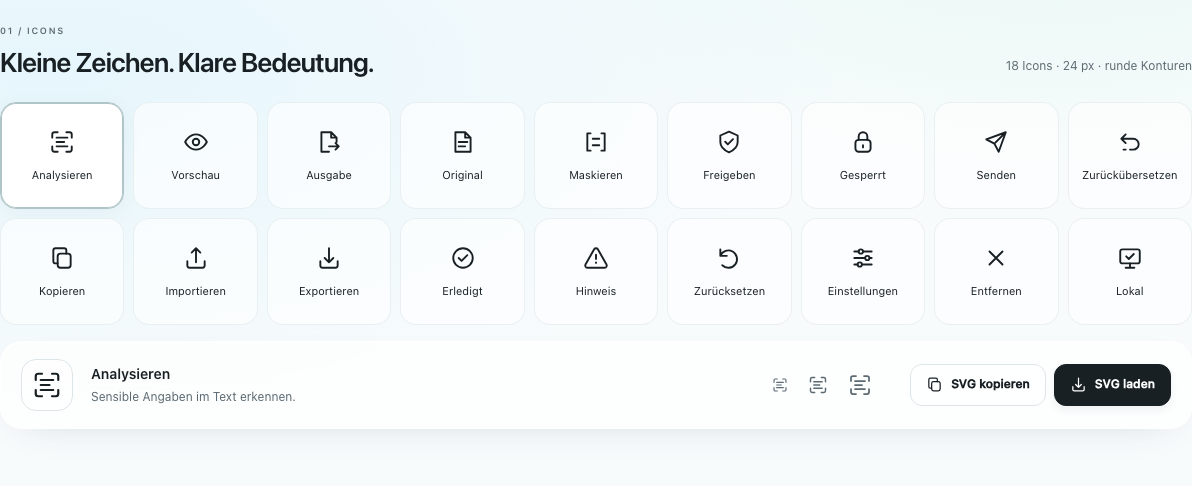
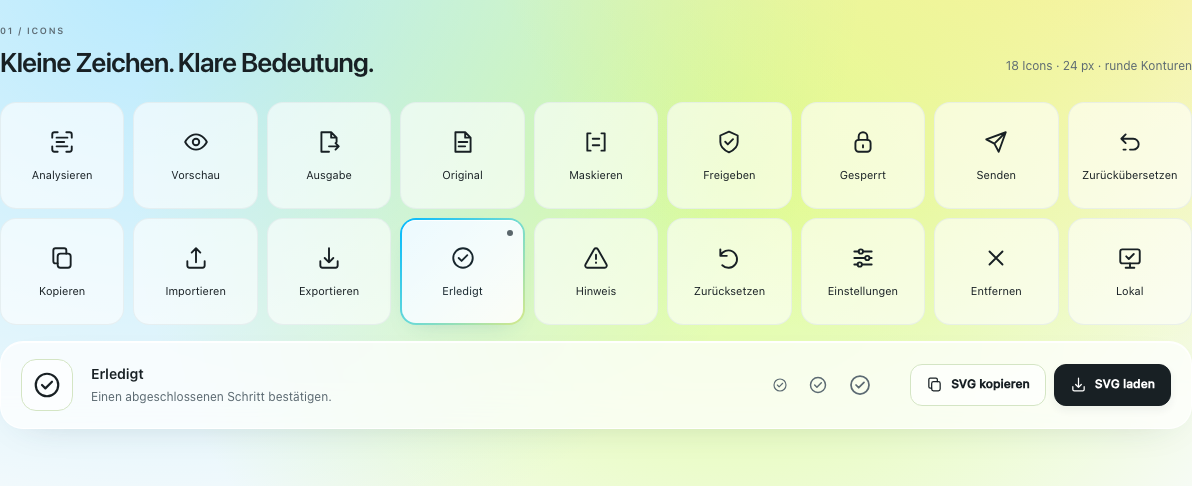
UI Kit: Material C mit hellen Flächen und feinem Farbrand übernehmen (#18)

diff --git a/web/ui-kit/kit.css b/web/ui-kit/kit.css
@@ -177,8 +177,15 @@ footer > span:first-child { color:var(--ink); font-weight:600; }
 footer a { color:var(--ink); }
 body[data-look="lime"] { --panel:#ffffffb8; --line:#d4e5c4; --surface:#fcfff9; --round:23px; }
 body[data-look="lime"] .ambient { height:1450px; background:radial-gradient(ellipse at 85% 18%,#ffe53b88,transparent 37%),radial-gradient(ellipse at 20% 30%,#00b8ff44,transparent 43%),radial-gradient(ellipse at 60% 45%,#c6ff3d88,transparent 50%); }
-body[data-look="lime"] .icon-tile[aria-pressed="true"] { background:#c6ff3d; border-color:#aedb44; box-shadow:inset 0 0 0 1px #aedb44; }
-body[data-look="lime"] .segmented button[aria-pressed="true"] { background:#c6ff3d; }
+body[data-look="lime"] .icon-tile[aria-pressed="true"],
+body[data-look="lime"] .segmented button[aria-pressed="true"],
+body[data-look="lime"] .button.accent:not(:disabled) {
+  background:linear-gradient(#ffffffec,#ffffffec) padding-box,linear-gradient(135deg,#00b8ff,#68d9d8 48%,#d6e989) border-box;
+  border:2px solid transparent; color:#18272e;
+  box-shadow:0 10px 24px -14px #267b8d45,inset 0 1px 0 #ffffffcc;
+}
+body[data-look="lime"] .icon-tile[aria-pressed="true"] { position:relative; }
+body[data-look="lime"] .icon-tile[aria-pressed="true"]::after { content:""; position:absolute; top:10px; right:10px; width:6px; height:6px; border-radius:50%; background:currentColor; opacity:.7; }
 body[data-look="pure"] { --panel:#fff; --surface:#fff; --line:#e4e7e9; --round:14px; --shadow:none; }
 body[data-look="pure"] .ambient,body[data-look="pure"] .hero-art::before,body[data-look="pure"] .hero-art::after { display:none; }
 body[data-look="pure"] .art-icon { background:#f7f8f8; border-color:#e4e8e9; box-shadow:none; }

diff --git a/web/ui-kit/README.md b/web/ui-kit/README.md
@@ -7,7 +7,7 @@
 ## Enthalten
 
 1. **18 Icons:** Analysieren, Vorschau, Ausgabe, Original, Maskieren, Freigeben, Gesperrt, Senden, Zurückübersetzen, Kopieren, Importieren, Exportieren, Erledigt, Hinweis, Zurücksetzen, Einstellungen, Entfernen und Lokal.
-2. **Lime Soda als Standard:** heller Cyan/Mint/Lime/Gelb Verlauf, schwarze Typografie und transparente Glaselemente. Liquid Glass und Pure White bleiben zum Vergleichen umschaltbar.
+2. **Lime Soda mit Material C als Standard:** heller Cyan/Mint/Lime/Gelb Verlauf und schwarze Typografie. Ausgewählte Icon Kacheln, aktive Schalter und Freigabe Buttons haben helle Glasflächen mit feinem Farbrand. Liquid Glass und Pure White bleiben zum Vergleichen umschaltbar.
 3. **Komponenten:** beschriftete Buttons, Sperrzustände, Statusanzeigen, Hinweise, Eingaben und Platzhalter.
 4. **Drei Ablaufdemos:** Beispielsanalyse, Vorschau, Freigabe, simulierte Ausgabe und Zurücksetzen. Jede Demo funktioniert unabhängig; vor der Freigabe bleibt die Ausgabe gesperrt.
 5. **Interaktives Dashboard:** Banner im Kopfbereich oder Glas Ablaufleiste, drei Arbeitsbereiche sowie Freigabe und simulierte Ausgabe. Eine Änderung an den Platzhaltern verwirft Freigabe und Ausgabe.
@@ -28,7 +28,7 @@ Die Demos nutzen feste erfundene Beispieldaten. Erkennung, Maskierung und Antwor
 
 ## Vorschau
 
-![Lime Soda UI Kit mit Icons, Komponenten und Demos](assets/kit-lime-soda.png)
+![Lime Soda UI Kit mit Material C und feinen Farbrändern](assets/kit-farbrand.png)
 
 ![Die 18 Icons mit Auswahl, Größenvergleich und SVG Export](assets/kit-icons.png)
 
@@ -38,7 +38,9 @@ Die Demos nutzen feste erfundene Beispieldaten. Erkennung, Maskierung und Antwor
 
 ## Weniger grüne Auswahlflächen
 
-Vier Materialstudien ersetzen die kräftig grüne Auswahlfläche durch zurückhaltendere Oberflächen. Das sind Vorschläge zur Auswahl; der aktive Lime Soda Look wurde noch nicht verändert.
+Loc hat **C · Glas mit Farbrand** ausgewählt. Dieser Stil ist jetzt im Lime Soda Look für ausgewählte Icon Kacheln, aktive Schalter und verfügbare Freigabe Buttons umgesetzt. Die Kacheln erhalten zusätzlich einen kleinen Auswahlmarker. Deaktivierte Aktionen bleiben gesperrt und neutral dargestellt.
+
+Die vier ursprünglichen Materialstudien bleiben zum Vergleich verfügbar:
 
 ![Vier Varianten für ausgewählte Icon Kacheln](assets/materialstudien/vergleich.png)
 
